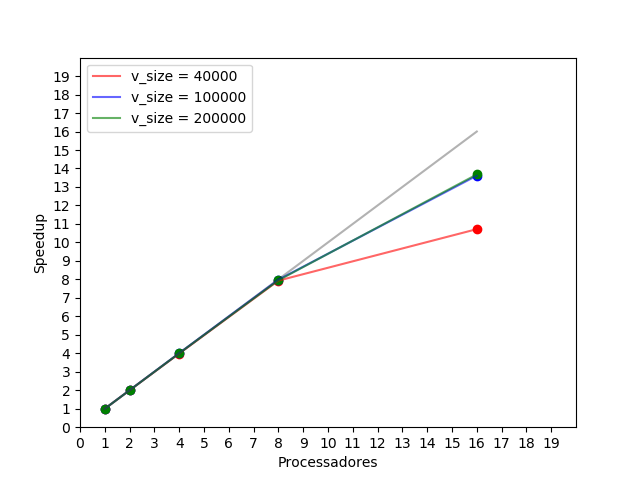
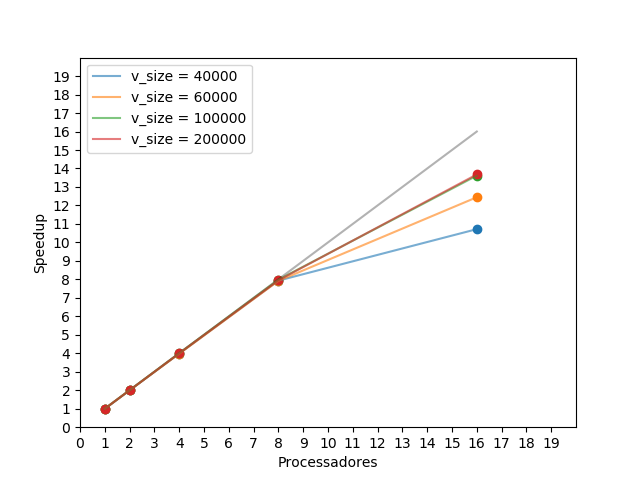
transferencia_calor.cpp adicionado

diff --git a/transferencia_calor.cpp b/transferencia_calor.cpp
@@ -1,0 +1,126 @@
+#include <iostream>
+#include <omp.h>
+#include <vector>
+#include <cstring>
+
+using namespace std;
+
+struct heat_point {
+    int x;
+    int y;
+    float temperature;
+    heat_point( float temperature , int x=0 , int y=0 ):x(x),y(y),temperature(temperature){}
+};
+
+void print_matrix( float* matrix , size_t w , size_t h ){
+    cout << "==== MATRIX =====" << endl;
+    for( size_t y = 0 ; y < w ; y++ )
+    {
+        for( size_t x = 0 ; x < w ; x++ )
+            cout << matrix[x + y*w] << "\t";
+        cout << endl;
+    }
+    cout << "===============" << endl;
+}
+
+float   ALPHA           = 0.2;
+size_t  MATRIX_SIZE     = 1024;
+float   INITIAL_TEMP    = 20;
+float   BORDER_TEMP     = 30;
+size_t  MAX_STEPS       = 512;
+vector<heat_point> heat_points = { heat_point(100,8,8) };
+
+void sor_step( float* mat , float* aux , 
+    size_t matrix_width , size_t matrix_height , 
+    size_t initial_y , size_t final_y , 
+    vector<heat_point>& heat_points )
+{
+    float BETA = ((1.0-ALPHA)/4);
+
+    initial_y = max( (size_t)1,initial_y);
+    final_y = min( (size_t)(matrix_height-1) ,final_y);
+    //cout << initial_y << "," << final_y << endl;
+
+    // Set temperature in each point a heat_point exists
+    for( vector<heat_point>::iterator it = heat_points.begin() ; it != heat_points.end() ; it++ ){
+        int y = it->y;
+        if( y >= initial_y && y < final_y )
+            mat[it->x+y*matrix_height] = it->temperature;
+    }
+
+    for( int y = initial_y ; y < final_y ; y++ )
+    for( int x = 1 ; x < matrix_width-1 ; x++ ){
+        aux[x+y*matrix_width] = mat[x+y*matrix_width]*ALPHA + BETA*(mat[x+(y+1)*matrix_width]+mat[x+(y-1)*matrix_width]+mat[x+1+y*matrix_width]+mat[x-1+y*matrix_width]);
+    }
+    
+}
+
+int main( int argc , char** argv ){
+    
+    size_t num_threads = 1;
+    if( argc > 1 )
+        num_threads = atoi(argv[1]);
+    omp_set_num_threads(num_threads);
+    cout << "Numero de threads: " << num_threads << endl;
+
+    // Allocating memory to be used
+    float* mat  = new float[MATRIX_SIZE*MATRIX_SIZE];
+    float* aux  = new float[MATRIX_SIZE*MATRIX_SIZE];
+
+    // Setting initial temperatures around the middle
+    for( int y = 1 ; y < MATRIX_SIZE-1 ; y++ )
+    for( int x = 1 ; x < MATRIX_SIZE-1 ; x++ )
+        mat[x+y*MATRIX_SIZE] = INITIAL_TEMP;
+
+    // Setting initial temperature around the borders
+    for( int x = 0 ; x < MATRIX_SIZE ; x++ )
+        mat[x] = BORDER_TEMP;
+    for( int x = 0 ; x < MATRIX_SIZE ; x++ )
+        mat[x+(MATRIX_SIZE-1)*MATRIX_SIZE] = BORDER_TEMP;
+    for( int y = 0 ; y < MATRIX_SIZE ; y++ )
+        mat[y*MATRIX_SIZE] = BORDER_TEMP;
+    for( int y = 0 ; y < MATRIX_SIZE ; y++ )
+        mat[MATRIX_SIZE-1+y*MATRIX_SIZE] = BORDER_TEMP;
+    
+    // aux gotta be the same as mat initially
+    memcpy( aux , mat , sizeof(float)*MATRIX_SIZE*MATRIX_SIZE );
+
+    // Running until MAX_STEPS of SOR
+    double initial_t = omp_get_wtime();
+    #pragma omp parallel
+    {
+        #pragma omp master
+        {
+            for( int step = 0 ; step < MAX_STEPS ; step++ ){
+                #pragma omp taskgroup
+                {
+                    for( int thread_id = 0 ; thread_id < num_threads ; thread_id++ ){
+                        #pragma omp task
+                        {    
+                            size_t initial_y = MATRIX_SIZE * (float(thread_id)/num_threads);
+                            size_t final_y   = MATRIX_SIZE * (float(thread_id+1)/num_threads);
+                            sor_step( mat , aux , MATRIX_SIZE , MATRIX_SIZE , initial_y , final_y , heat_points );
+                        }
+                    }
+                }
+                #pragma omp taskgroup
+                {
+                    for( int thread_id = 0 ; thread_id < num_threads ; thread_id++ ){
+                        #pragma omp task
+                        {    
+                            size_t initial_y = MATRIX_SIZE * (float(thread_id)/num_threads);
+                            size_t final_y   = MATRIX_SIZE * (float(thread_id+1)/num_threads);
+                            memcpy( mat , aux , sizeof(float)*MATRIX_SIZE*(final_y-initial_y) );
+                        }
+                    }
+                }
+                
+            }
+        }
+    }
+    cout << "Tempo: " << omp_get_wtime() - initial_t << " segundos. "; 
+    cout << "Ponto(8,8) deve estar 63.6078: " << mat[7+MATRIX_SIZE*7] << endl;
+
+    delete[] mat;
+    delete[] aux;
+}

diff --git a/graph_plotter.py b/graph_plotter.py
@@ -5,10 +5,12 @@ from matplotlib import pyplot
 
 num_procs = [ 1 , 2 , 4 , 8 , 16 ]
 t_40k = [ 14.6109 , 7.31309 , 3.66512 , 1.84203 , 1.36338 ]
+t_60k = [ 32.7475 , 16.3677 , 8.2373 , 4.13542 , 2.6316 ]
 t_100k = [ 91.285 , 45.5806 , 22.7837 , 11.4367 , 6.70603 ]
 t_200k = [ 363.956 , 182.176 , 91.0162 , 45.7744 , 26.6109 ]
 
 speedup_40k = [ (t_40k[0]/x) for x in t_40k ]
+speedup_60k = [ (t_60k[0]/x) for x in t_60k ]
 speedup_100k = [ (t_100k[0]/x) for x in t_100k ]
 speedup_200k = [ (t_200k[0]/x) for x in t_200k ]
 
@@ -19,11 +21,13 @@ pyplot.ylim(0,20)
 pyplot.xticks(range(0,20,1))
 pyplot.yticks(range(0,20,1))
 pyplot.plot( num_procs , num_procs , color=(0,0,0,0.3) )
-pyplot.plot( num_procs , speedup_40k , color='red' , alpha=0.6 , label='v_size = 40000' )
-pyplot.scatter( num_procs , speedup_40k , color='red' , alpha=1.0 )
-pyplot.plot( num_procs , speedup_100k , color='blue' , alpha=0.6 , label='v_size = 100000' )
-pyplot.scatter( num_procs , speedup_100k , color='blue' , alpha=1.0 )
-pyplot.plot( num_procs , speedup_200k , color='green' , alpha=0.6 , label='v_size = 200000' )
-pyplot.scatter( num_procs , speedup_200k , color='green' , alpha=1.0 )
+pyplot.plot( num_procs , speedup_40k , alpha=0.6 , label='v_size = 40000' )
+pyplot.scatter( num_procs , speedup_40k , alpha=1.0 )
+pyplot.plot( num_procs , speedup_60k , alpha=0.6 , label='v_size = 60000' )
+pyplot.scatter( num_procs , speedup_60k , alpha=1.0 )
+pyplot.plot( num_procs , speedup_100k , alpha=0.6 , label='v_size = 100000' )
+pyplot.scatter( num_procs , speedup_100k  , alpha=1.0 )
+pyplot.plot( num_procs , speedup_200k , alpha=0.6 , label='v_size = 200000' )
+pyplot.scatter( num_procs , speedup_200k  , alpha=1.0 )
 pyplot.legend()
 pyplot.show()
